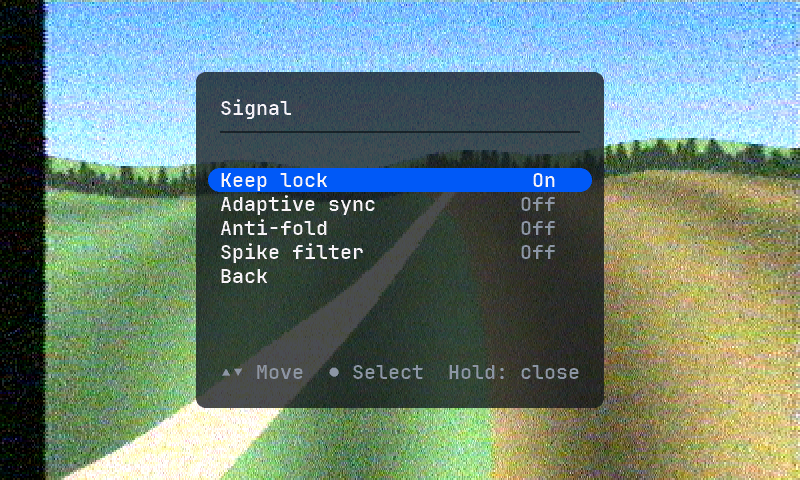
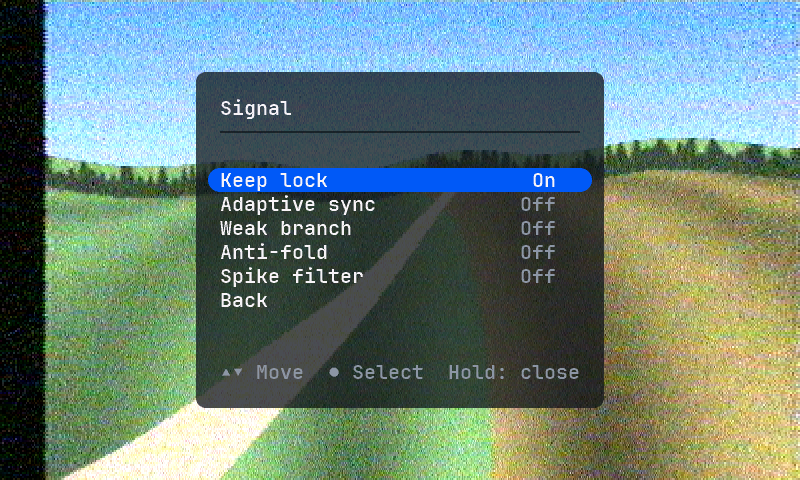
Signal page: separate Weak branch (B/C only) and a real anti-fold guard
Weak branch leaves B or C out below 1/8 of the strongest weight; A, the
phase reference, always stays in. Anti-fold now measures per branch the
sign correlation of the rotated B / C with A (tau 128) and leaves a branch
out while it is clearly negative, whatever its weight. Bit-identical to
the model with healthy signals, also with anti-fold on.

Claude-Session: https://claude.ai/code/session_01SbUcqf2coNPus5rYcABRPw

Changed region(s): [[0.2812, 0.4375, 0.4688, 0.6562], [0.625, 0.5625, 0.6875, 0.5938]]

diff --git a/fpga/gen/gen_osd.py b/fpga/gen/gen_osd.py
@@ -52,7 +52,7 @@ BANDS = 'RABEFL'
 
 FIELDS = ['', 'CAPL', 'CAPR', 'LIVECH', 'REC', 'NOSIG', 'RXBAR', 'VSTD', 'CHVAL', 'SCANV', 'RECV', 'RXCNT',
           'RXROW', 'GAINV', 'AFCV', 'BRIGHTV', 'CALV', 'EDL', 'EDR', 'MODEV', 'ASPV', 'LOGOV', 'LOGO',
-          'KLOCKV', 'ASYNCV', 'AFOLDV', 'SPIKEV']
+          'KLOCKV', 'ASYNCV', 'AFOLDV', 'SPIKEV', 'WEAKV']
 FID = {n: i for i, n in enumerate(FIELDS)}
 
 # menu geometry
@@ -61,12 +61,13 @@ TOP, BOT = 3, 16           # panel rows (inclusive)
 ITEM0 = 7                  # first item row
 MAIN_ITEMS = [('Channel', 'CHVAL'), ('Mode', 'MODEV'), ('Scan', 'SCANV'), ('Record', 'RECV'), ('Receivers', 'RXCNT'),
               ('Signal', None), ('Settings', None)]
-SIG_ITEMS = [('Keep lock', 'KLOCKV'), ('Adaptive sync', 'ASYNCV'), ('Anti-fold', 'AFOLDV'), ('Spike filter', 'SPIKEV'),
+SIG_ITEMS = [('Keep lock', 'KLOCKV'), ('Adaptive sync', 'ASYNCV'), ('Weak branch', 'WEAKV'), ('Anti-fold', 'AFOLDV'),
+             ('Spike filter', 'SPIKEV'),
              ('Back', None)]
 SET_ITEMS = [('Gain', 'GAINV'), ('AFC', 'AFCV'), ('Aspect', 'ASPV'), ('Logo', 'LOGOV'), ('Brightness', 'BRIGHTV'),
              ('Calibrate', 'CALV'), ('Back', None)]
-W_VAL = dict(KLOCKV=3, ASYNCV=3, AFOLDV=3, SPIKEV=3, ASPV=9, LOGOV=3, MODEV=10, CHVAL=9, SCANV=11, RECV=9, RXCNT=3, GAINV=5, AFCV=3, BRIGHTV=8, CALV=6)
-N_ITEMS = [0, 7, 1, 7, 5]  # selectable rows per page (receivers: Back only, row ITEM0 + 4); 4 = Signal
+W_VAL = dict(WEAKV=3, KLOCKV=3, ASYNCV=3, AFOLDV=3, SPIKEV=3, ASPV=9, LOGOV=3, MODEV=10, CHVAL=9, SCANV=11, RECV=9, RXCNT=3, GAINV=5, AFCV=3, BRIGHTV=8, CALV=6)
+N_ITEMS = [0, 7, 1, 7, 6]  # selectable rows per page (receivers: Back only, row ITEM0 + 4); 4 = Signal
 
 
 def glyphs_vh():
@@ -381,8 +382,8 @@ def field_cells(name, w, st, row, sel, edit):
         return K(rjust(['Level', 'Keel', 'RSSI'][st['gain_model']], w))
     if name == 'AFCV':
         return K(rjust('On' if st['afc'] else 'Off', w))
-    if name in ('KLOCKV', 'ASYNCV', 'AFOLDV', 'SPIKEV'):
-        key = dict(KLOCKV='klock', ASYNCV='async', AFOLDV='afold', SPIKEV='spike')[name]
+    if name in ('KLOCKV', 'ASYNCV', 'AFOLDV', 'SPIKEV', 'WEAKV'):
+        key = dict(KLOCKV='klock', ASYNCV='async', AFOLDV='afold', SPIKEV='spike', WEAKV='weak')[name]
         return K(rjust('On' if st.get(key, False) else 'Off', w))
     if name == 'BRIGHTV':
         return K([SEG_ON if k <= st['bright'] else SEG_OFF for k in range(8)], fg=WHITE if sel or edit else None)

diff --git a/README.md b/README.md
@@ -113,8 +113,15 @@ receiver's own.
   - *Adaptive sync*: once the line lock is full the line phase is pulled in
     by e/8 instead of e/4: less horizontal jitter on a noisy signal; while
     locking it stays e/4.
-  - *Anti-fold*: a C5 whose combining weight is below 1/8 of the strongest
-    is left out of the fusion: at that level it adds more noise than picture.
+  - *Weak branch*: C5 B or C, when its combining weight is below 1/8 of the
+    strongest, is left out of the fusion: at that level it adds more noise
+    than picture. C5 A, the phase reference, always stays in.
+  - *Anti-fold*: per branch the sign correlation of the rotated B / C with A
+    (low-passed over ~128 samples). When it turns clearly negative (the branch
+    adds out of phase and would cancel picture) that branch is left out,
+    whatever its weight, and comes back once it is in phase again. With
+    healthy signals it never trips (bit-identical to the reference model down
+    to -2 dB C/N).
   - *Spike filter*: the median of the last three demodulator codes (50 ns
     apart) removes single-sample white / black dots; edges and detail of two
     samples and wider pass unchanged.
